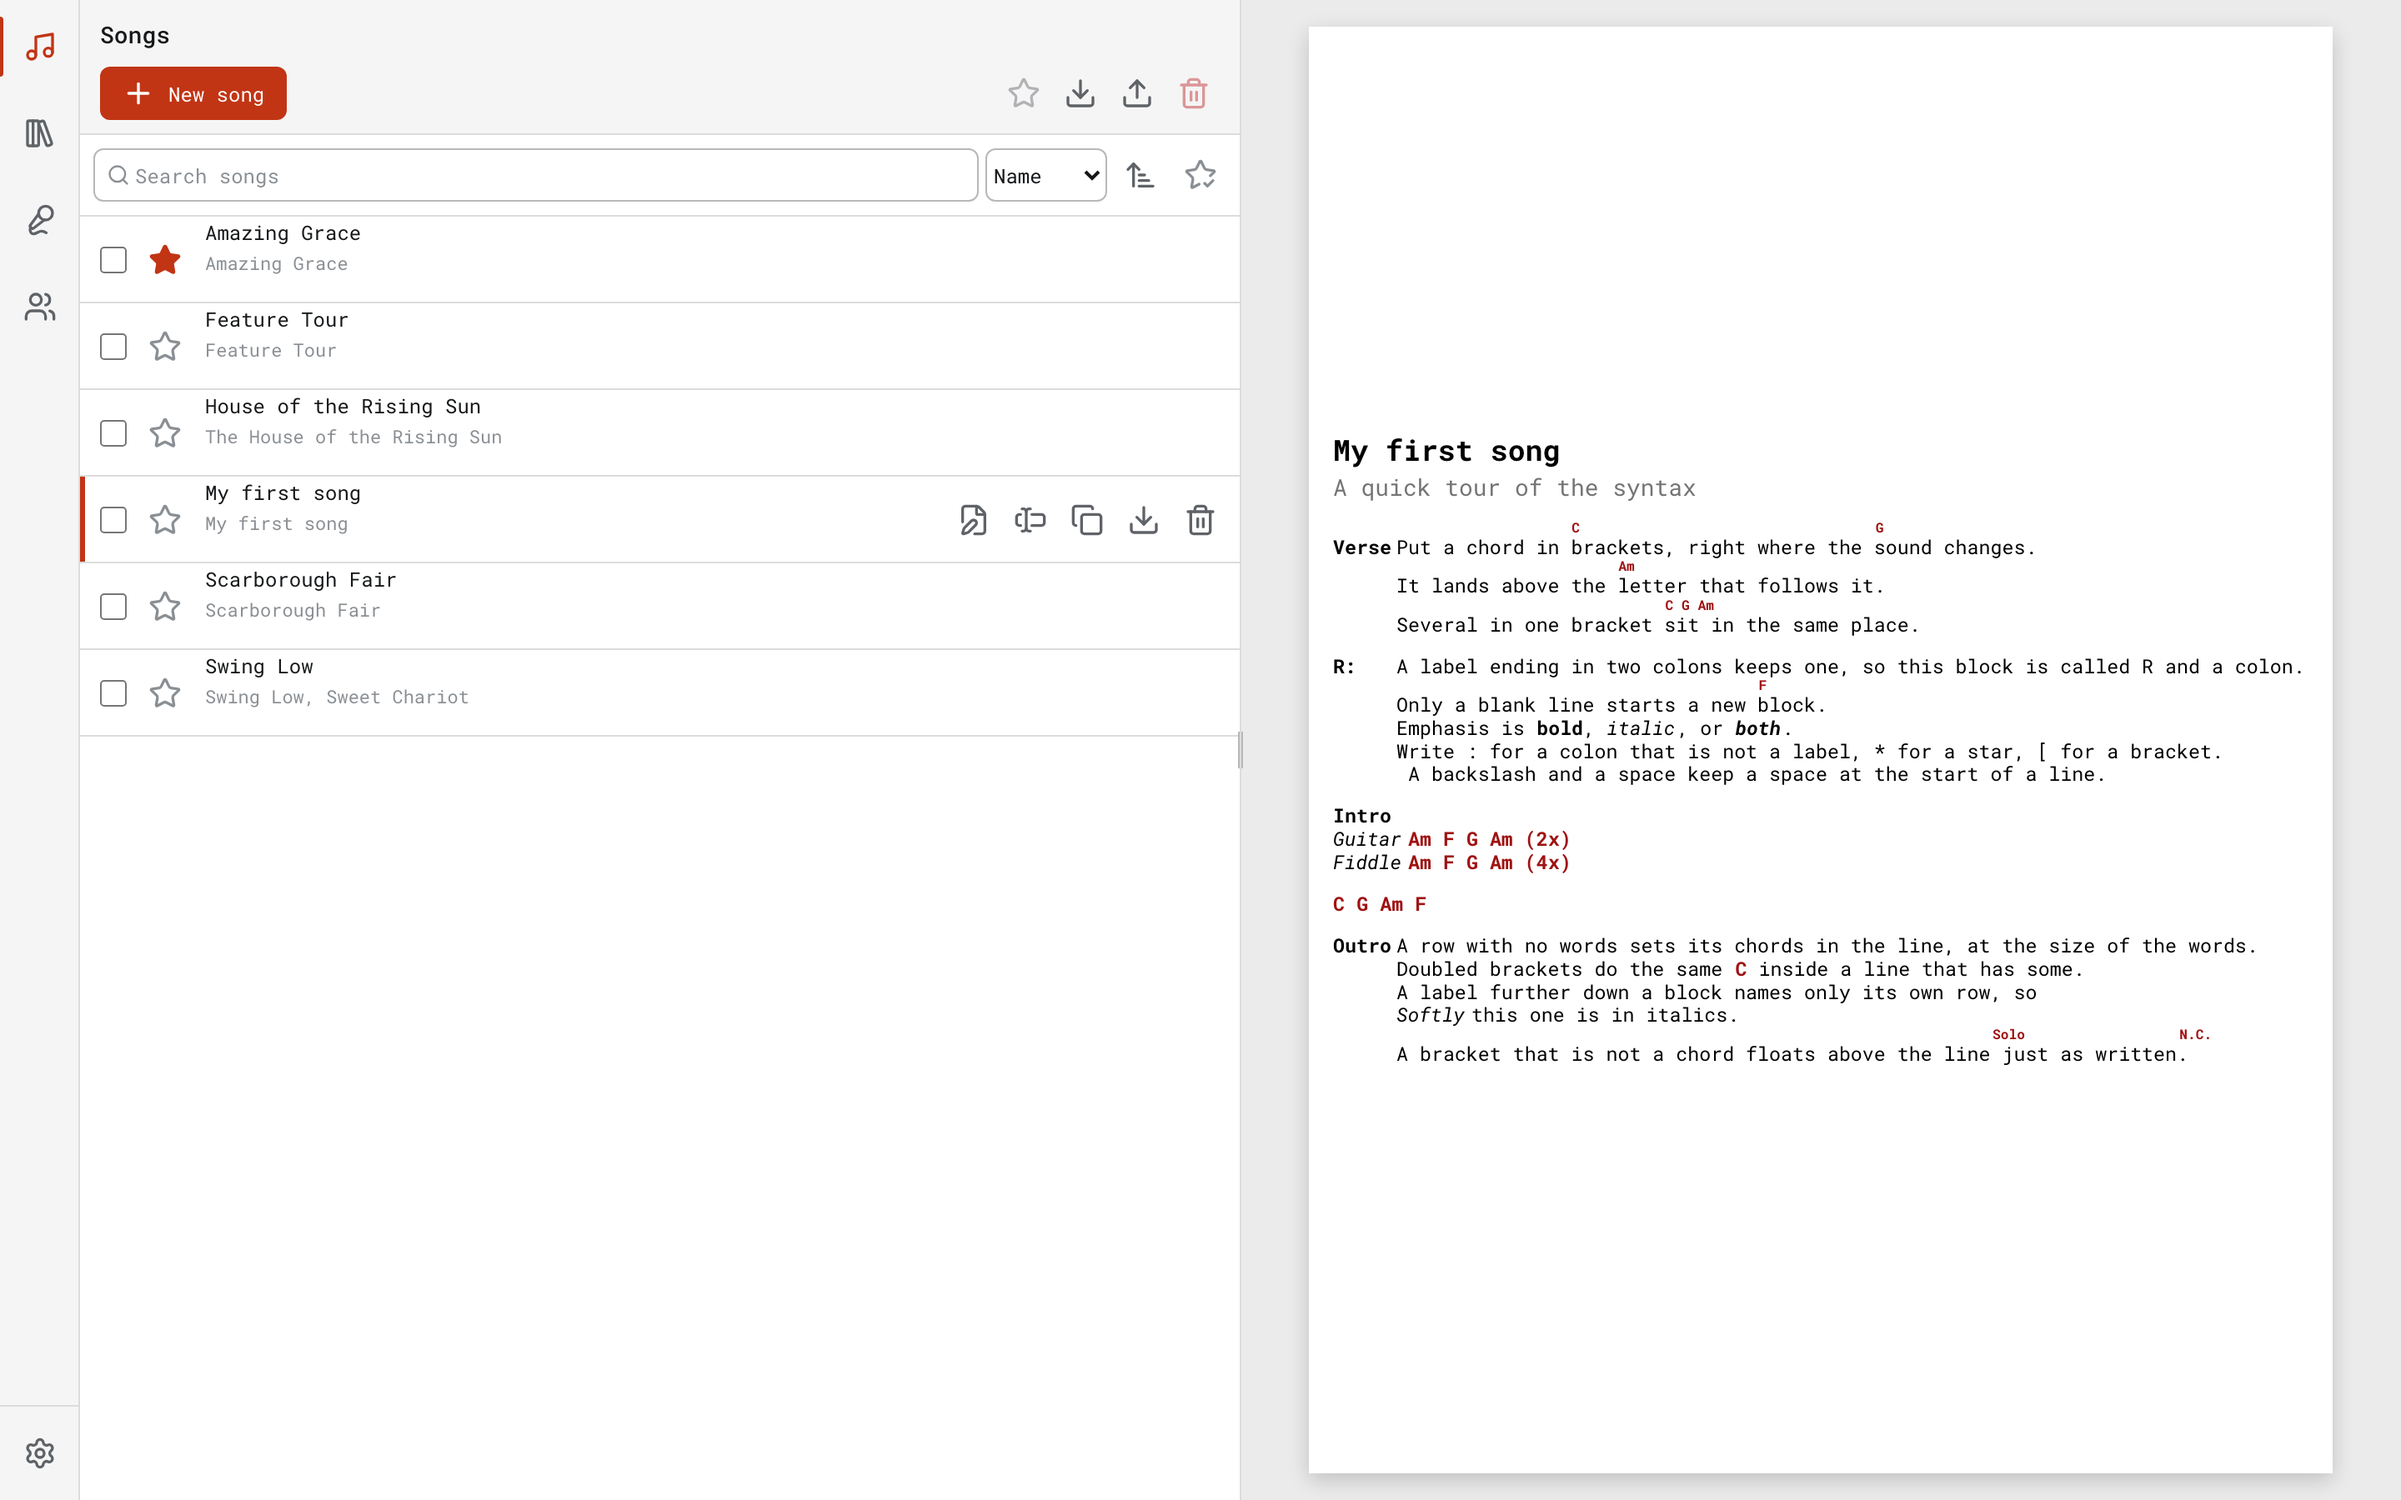
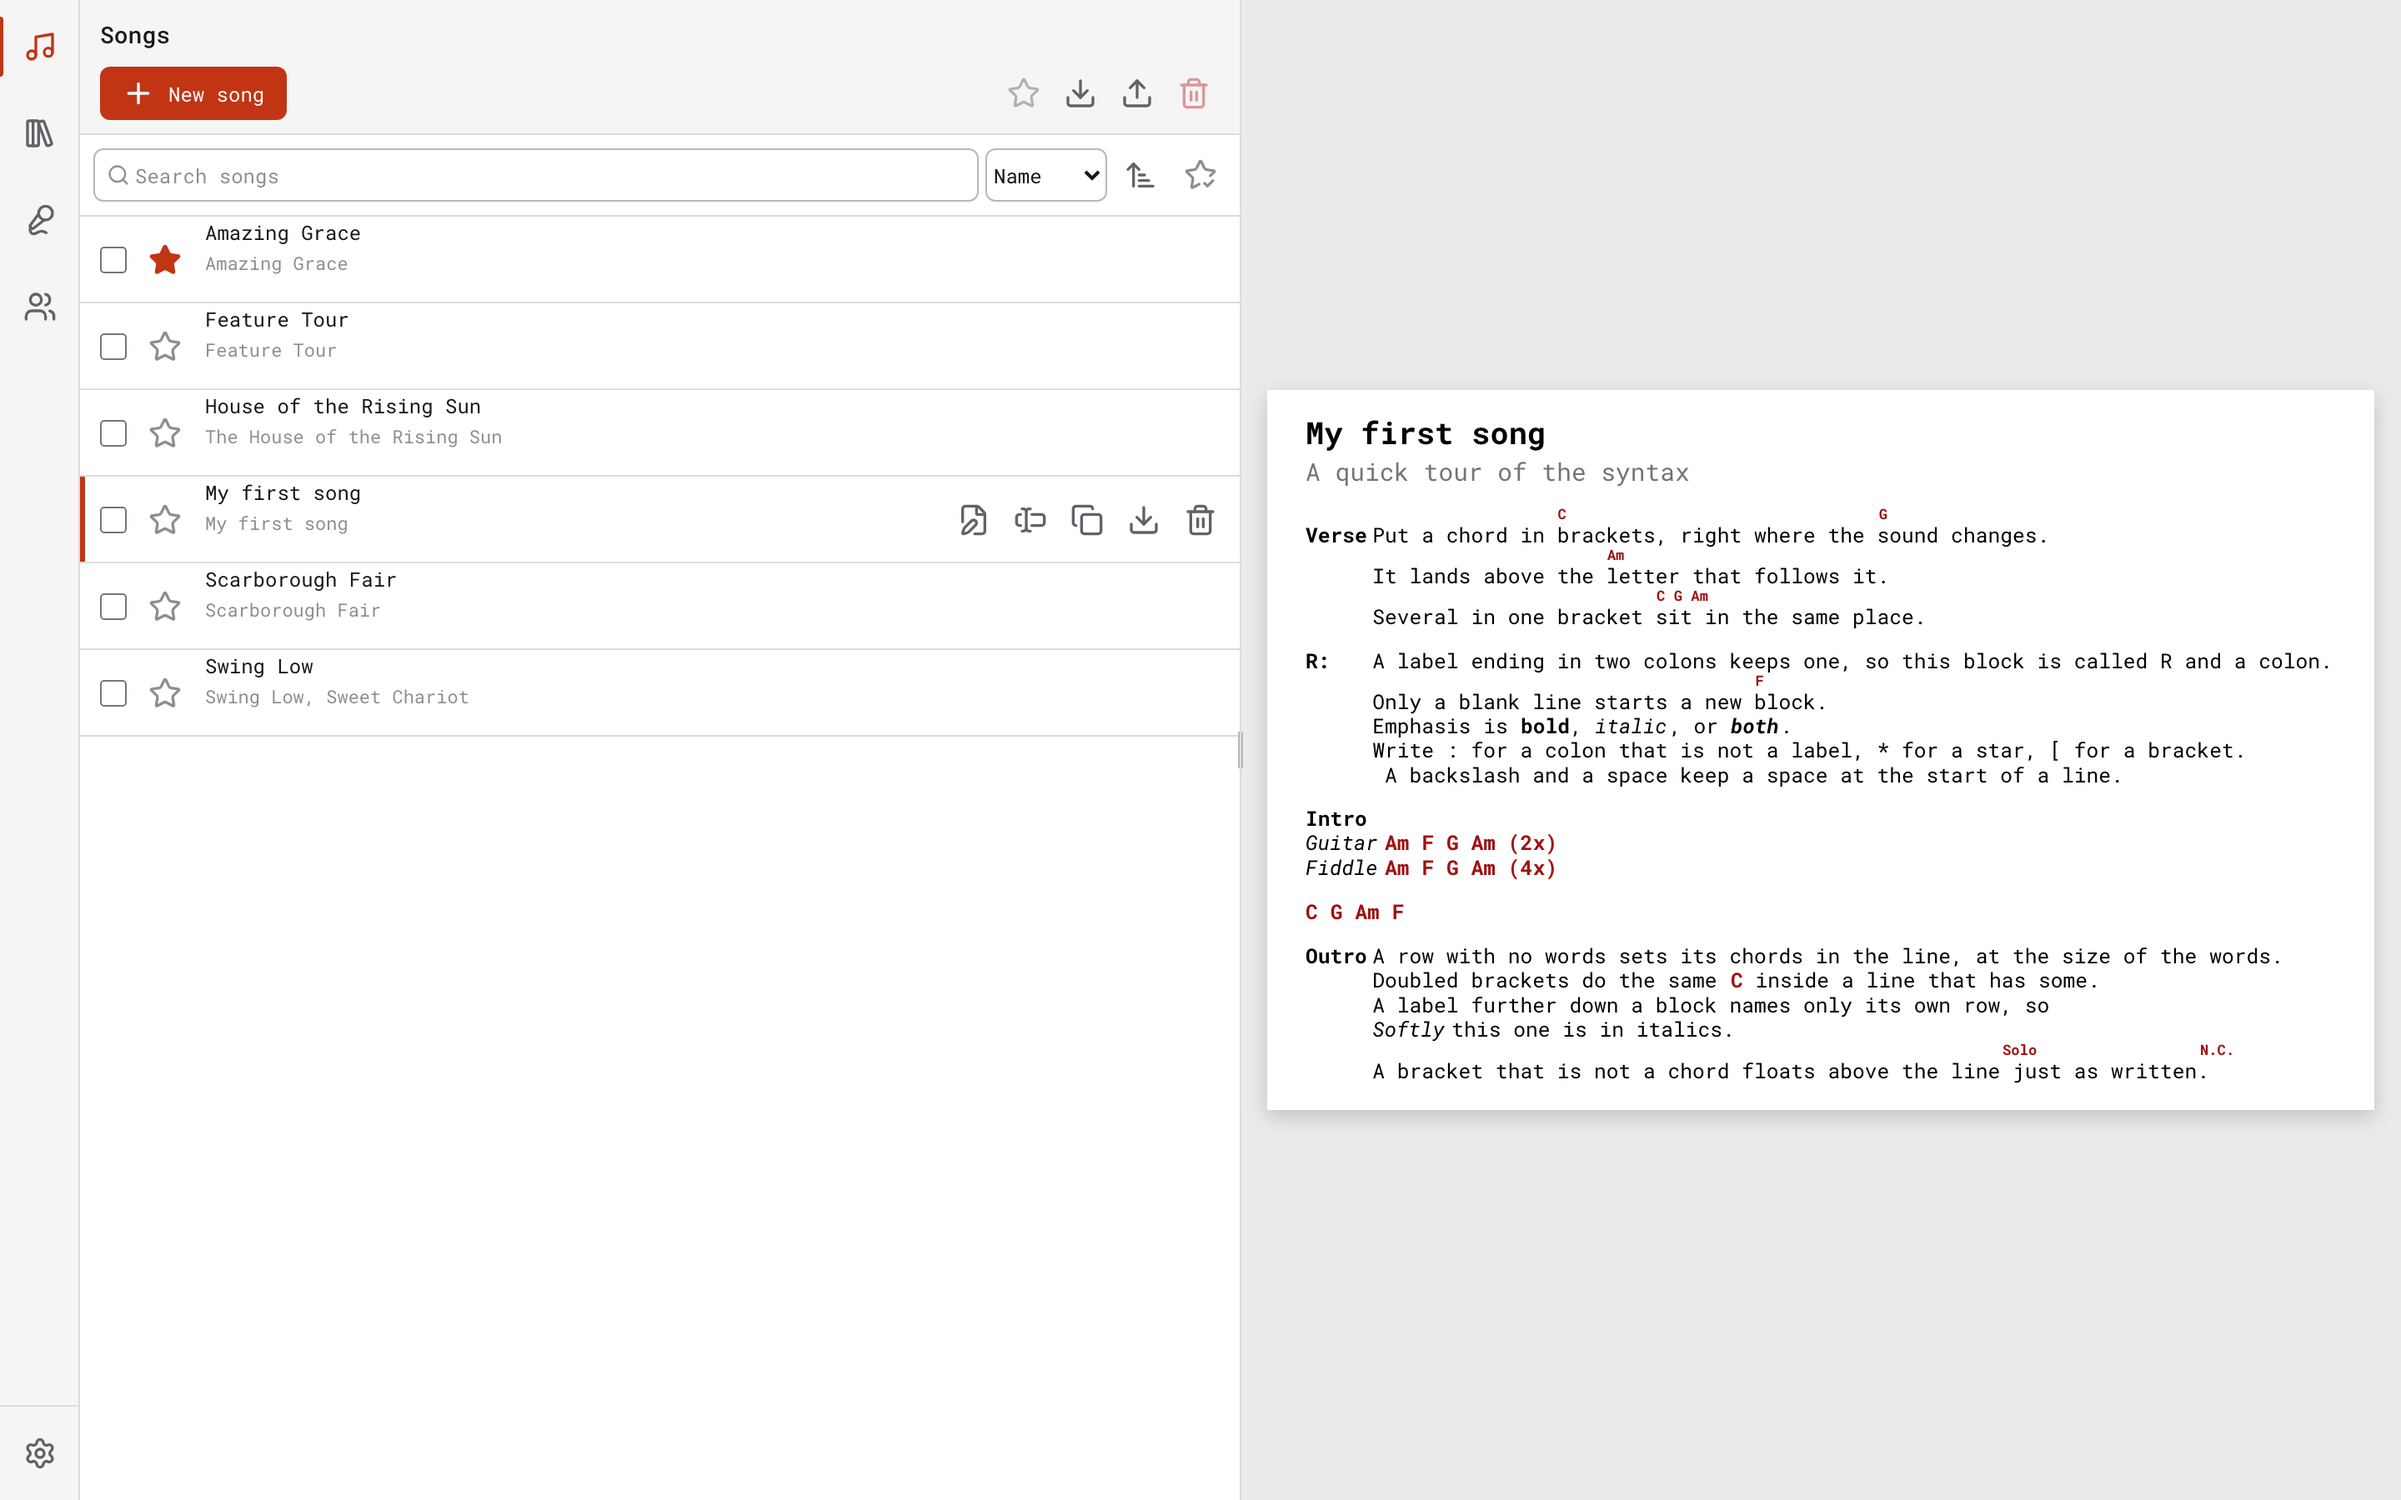
docs: add a toggleable image shadow and refresh the screenshots
The <Image> component gains a `shadow` prop that lifts an image off the page
with a soft drop shadow (dark-mode aware); the song render, which is mostly
white, opts in. Screenshots regenerated against the guide song's new shape.

Changed region(s): [[0.5312, 0.2489, 1.0, 0.7778]]

diff --git a/apps/docs/src/theme/MDXComponents/Img/index.tsx b/apps/docs/src/theme/MDXComponents/Img/index.tsx
@@ -6,16 +6,19 @@ import { type ReactNode } from 'react';
 
 import styles from './styles.module.css';
 
-function transformImgClassName(className?: string): string {
-  return clsx(className, styles.img);
+function transformImgClassName(className?: string, shadow?: boolean): string {
+  return clsx(className, styles.img, shadow && styles.shadow);
 }
 
 type ImgProps = Props & {
   isDesign?: boolean;
+  /** Lift the image off the page with a soft drop shadow (e.g. a floating
+   * song render that would otherwise blend into the white page). */
+  shadow?: boolean;
 };
 
 export default function MDXImg(props: ImgProps): ReactNode {
-  const { isDesign, ...rest } = props;
+  const { isDesign, shadow, ...rest } = props;
   // Resolve a root-relative `src` (e.g. `/img/foo.png`) against the site's
   // baseUrl, so images work under a subpath deployment. Absolute URLs and empty
   // values are left untouched by useBaseUrl.
@@ -26,7 +29,7 @@ export default function MDXImg(props: ImgProps): ReactNode {
       loading="lazy"
       {...rest}
       src={rest.src ? src : undefined}
-      className={transformImgClassName(rest.className)}
+      className={transformImgClassName(rest.className, shadow)}
     />
   );
 

diff --git a/apps/docs/src/theme/MDXComponents/Img/styles.module.css b/apps/docs/src/theme/MDXComponents/Img/styles.module.css
@@ -1,3 +1,15 @@
 .img {
   height: auto;
 }
+
+/* A soft lift for images that float on the page (a song render is mostly white,
+   so without it the edges vanish into the page). Rounded to match the app's own
+   surfaces; the shadow deepens in dark mode where a light image needs more. */
+.shadow {
+  border-radius: 8px;
+  box-shadow: 0 4px 24px rgba(0, 0, 0, 0.15);
+}
+
+[data-theme='dark'] .shadow {
+  box-shadow: 0 4px 28px rgba(0, 0, 0, 0.55);
+}
